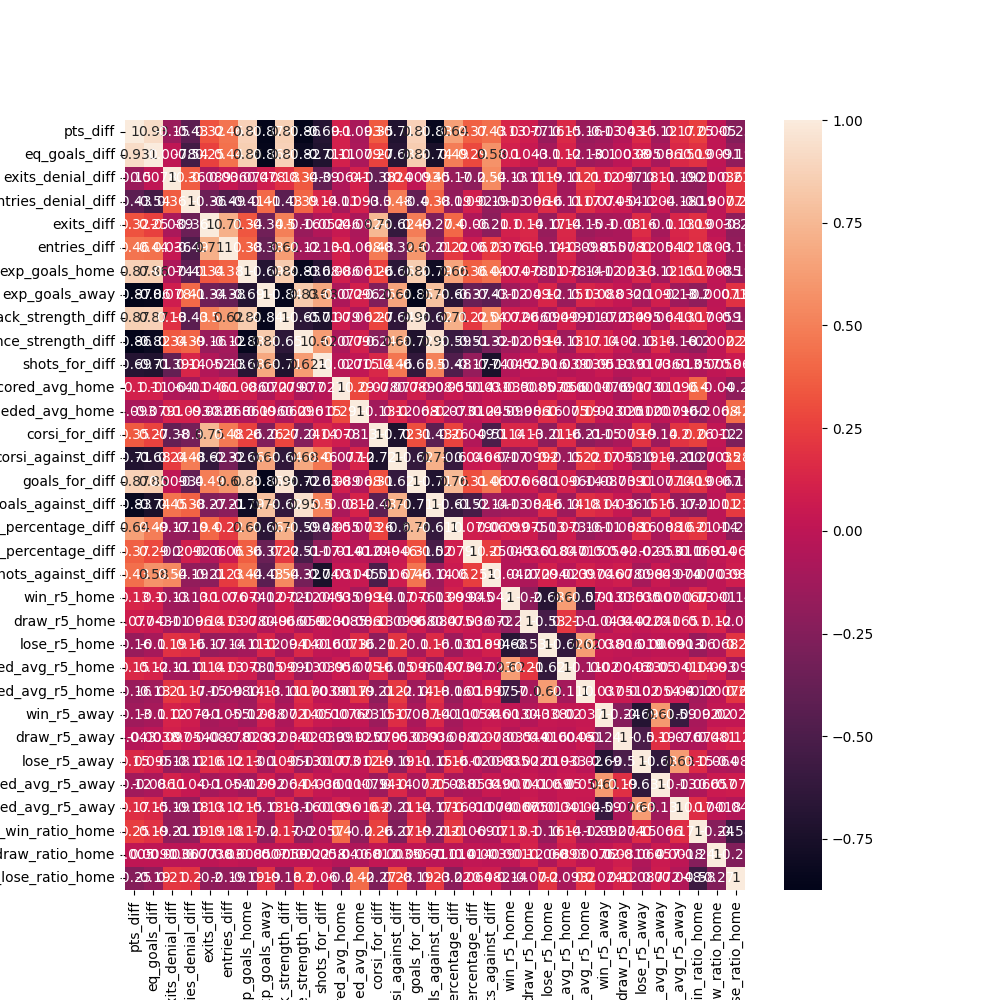
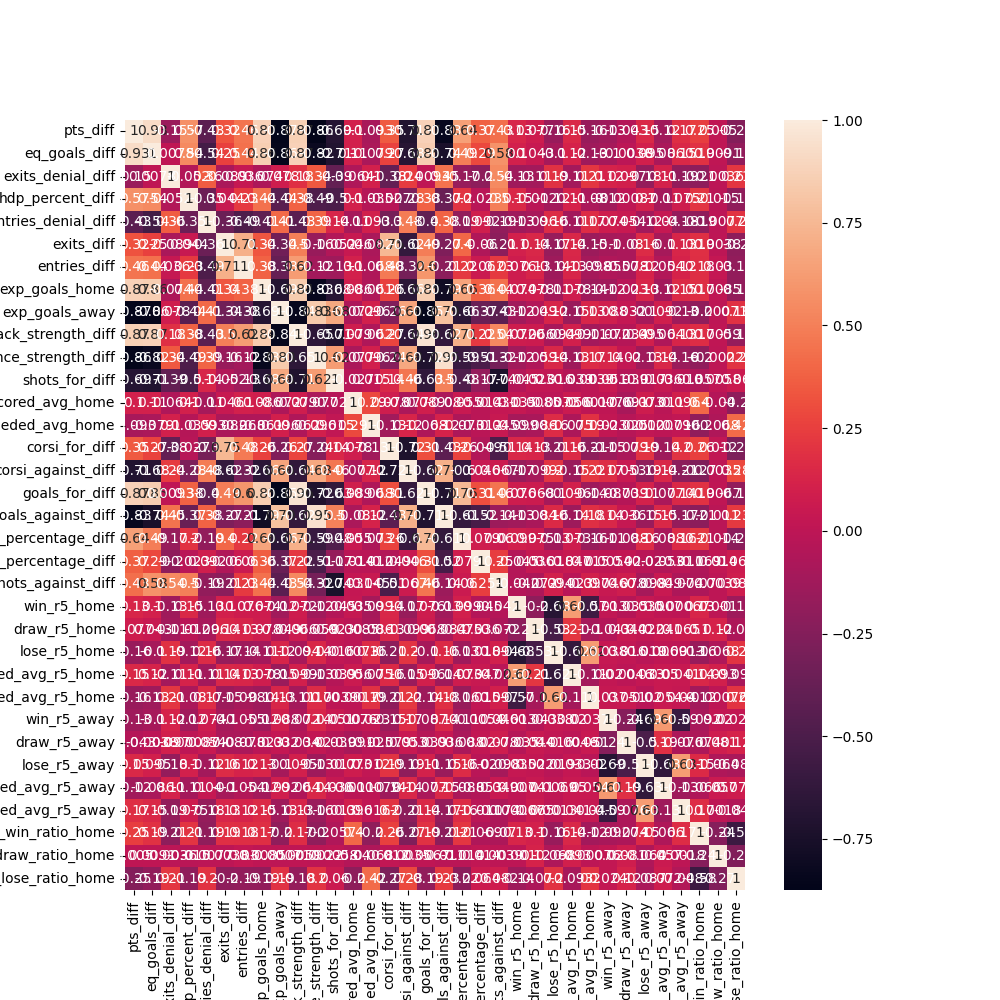
new odds, experiemtsn

diff --git a/predict.py b/predict.py
@@ -9,6 +9,7 @@ exits = pd.read_csv('./data/teams/exits.csv')
 exits_denial = pd.read_csv('./data/teams/exits_denial.csv')
 entries = pd.read_csv('./data/teams/entries.csv')
 league_shots = pd.read_csv('./data/teams/shots_league.csv')
+hd_passes = pd.read_csv('./data/teams/hd_passes.csv')
 entries_denial = pd.read_csv('./data/teams/entries_denial.csv')
 league_stats = pd.read_csv('./data/22_23_league.csv')
 # choose first row of league stats
@@ -20,7 +21,7 @@ ceiling_odd = config['ceiling_odd']
 models = {}
 target_vars = []
 
-features = ['pts_diff', 'eq_goals_diff', 'exits_denial_diff', 'entries_denial_diff', 'exits_diff', 'entries_diff', 'exp_goals_home', 'exp_goals_away', 'attack_strength_diff', 'defence_strength_diff', 'shots_for_diff', 'h2h_scored_avg_home', 'h2h_conceded_avg_home', 'corsi_for_diff', 'corsi_against_diff', 'goals_for_diff', 'goals_against_diff', 'pp_percentage_diff', 'pk_percentage_diff', 'shots_against_diff', 'win_r5_home', 'draw_r5_home', 'lose_r5_home', 'scored_avg_r5_home', 'conceded_avg_r5_home', 'win_r5_away', 'draw_r5_away', 'lose_r5_away', 'scored_avg_r5_away', 'conceded_avg_r5_away', 'h2h_win_ratio_home', 'h2h_draw_ratio_home', 'h2h_lose_ratio_home']
+features = config['default_features'] 
 for model in os.listdir(model_dir): 
     if model.endswith('.sav'):
         type = model.split('_')[0]
@@ -121,6 +122,13 @@ def populate_matchup_data(matchup, team1, team2):
     entries_denial_diff = team_home_entries_denial - team_away_entries_denial
     matchup['entries_denial_diff'] = entries_denial_diff
 
+
+    hdp_passes_home = hd_passes[hd_passes['Team'] == team1]
+    hdp_passes_away = hd_passes[hd_passes['Team'] == team2]
+    team_home_hdp_percent = hdp_passes_home['SuccessfulHDP %'].mean()
+    team_away_hdp_percent = hdp_passes_away['SuccessfulHDP %'].mean()
+    hdp_percent_diff = team_home_hdp_percent - team_away_hdp_percent
+    matchup['hdp_percent_diff'] = hdp_percent_diff 
     
 
 
@@ -270,7 +278,7 @@ for match in odds:
         idx=0
 
         bookmaker_line = match.get(target_var)
-        # print(target_var)
+        print(target_var)
         for prob in line:
             adjusted_prob = prob*100+(bookmaker_margin/len(line))
             adjusted_prob = adjusted_prob/100
@@ -306,7 +314,13 @@ for match in odds:
 
             # 30% is max EV,reason: possible error in model
             if ev>config['min_ev'] and bookmaker_odd<ceiling_odd and bookmaker_odd > 1:
+                bankroll = config['bankroll']
+                kelly_fraction = config['kelly_fraction']
+                kelly_bet = (prob*bookmaker_odd-1)/(bookmaker_odd-1)
+                kelly_bet = round(kelly_bet, 2)
+                kelly_bet = kelly_bet*kelly_fraction
                 print(f'Detected value bet: {ev}% - {target_var} {outcome_str} - Bookmaker: {bookmaker_odd}(Correct: {round(1/adjusted_prob, 2)}) - Prob: {round(prob*100, 2)}%') 
+                print(f'Recommended bet: {round(kelly_bet*bankroll, 2)}€')
             
             odds_accuracy += (1-abs(1/adjusted_prob-bookmaker_odd)/bookmaker_odd)*100
             odds_amount += 1

diff --git a/main.py b/main.py
@@ -2,22 +2,23 @@ import pandas as pd
 import numpy as np
 import seaborn as sns
 from matplotlib import pyplot as plt
+import json
 team_stats = pd.read_csv('./data/teams/Combined_Teams.csv')
 games = pd.read_csv('./data/games/Combined_Games.csv')
 exits = pd.read_csv('./data/teams/exits.csv')
+hd_passes = pd.read_csv('./data/teams/hd_passes.csv')
 exits_denial = pd.read_csv('./data/teams/exits_denial.csv')
-league_shots = pd.read_csv('./data/teams/shots_league.csv')
 entries_denial = pd.read_csv('./data/teams/entries_denial.csv')
 entries = pd.read_csv('./data/teams/entries.csv')
+config = json.load(open('./config.json'))
 from sklearn.model_selection import train_test_split
 from sklearn.model_selection import cross_val_score
 from sklearn.linear_model import LogisticRegression
 from sklearn.metrics import accuracy_score, classification_report
 
-# TODO: Learn how to use HD passes and HD passes against to improve model
-features = ['pts_diff', 'eq_goals_diff', 'exits_denial_diff', 'entries_denial_diff', 'exits_diff', 'entries_diff', 'exp_goals_home', 'exp_goals_away', 'attack_strength_diff', 'defence_strength_diff', 'shots_for_diff', 'h2h_scored_avg_home', 'h2h_conceded_avg_home', 'corsi_for_diff', 'corsi_against_diff', 'goals_for_diff', 'goals_against_diff', 'pp_percentage_diff', 'pk_percentage_diff', 'shots_against_diff', 'win_r5_home', 'draw_r5_home', 'lose_r5_home', 'scored_avg_r5_home', 'conceded_avg_r5_home', 'win_r5_away', 'draw_r5_away', 'lose_r5_away', 'scored_avg_r5_away', 'conceded_avg_r5_away', 'h2h_win_ratio_home', 'h2h_draw_ratio_home', 'h2h_lose_ratio_home']
+features = config['default_features'] 
 
-target_var = 'Moneyline'
+target_var = 'Outcome'
 league_stats = pd.read_csv('./data/22_23_league.csv')
 # choose first row of league stats
 league_stats = league_stats.iloc[0]
@@ -30,6 +31,7 @@ def get_dist(feature):
 def get_samples(dist):
     samples = np.random.choice(dist, 10000)
     return samples
+
 
 def monte_carlo_sim(model, its=5000):
     samples = []
@@ -199,6 +201,15 @@ for index, row in games.iterrows():
     team_away_entries_denial = team_away_entries_denial['ControlledEntries %against'].mean()
     entries_denial_diff = team_home_entries_denial - team_away_entries_denial
     games.at[index, 'entries_denial_diff'] = entries_denial_diff 
+
+    hdp_passes_home = hd_passes[hd_passes['Team'] == row['Team']]
+    hdp_passes_away = hd_passes[hd_passes['Team'] == row['Opp.']]
+    team_home_hdp_percent = hdp_passes_home['SuccessfulHDP %'].mean()
+    team_away_hdp_percent = hdp_passes_away['SuccessfulHDP %'].mean()
+    hdp_percent_diff = team_home_hdp_percent - team_away_hdp_percent
+    games.at[index, 'hdp_percent_diff'] = hdp_percent_diff 
+
+
 
 
 

diff --git a/combine_seasons.py b/combine_seasons.py
@@ -4,13 +4,15 @@ season_new = pd.read_csv('./data/teams/23_24-Teams.csv')
 season_last_shots = pd.read_csv('./data/teams/22_23-shots.csv')
 season_new_shots = pd.read_csv('./data/teams/23_24-shots.csv')
 
+include_new_season = True
+
 combined = pd.DataFrame()
 season_last = season_last.drop(columns=['Season'])
 season_new = season_new.drop(columns=['Season'])
 season_last_shots = season_last_shots.drop(columns=['Season'])
 season_new_shots = season_new_shots.drop(columns=['Season'])
 weight = season_new['GP'].sum() / season_last['GP'].sum();
-weight = weight * 1.5 
+weight = 0 if not include_new_season else weight * 1.5;
 print(f'Weight: {weight}')
 cols_to_average = ['GP', 'PTS', 'PTS/GP', 'TOI', 'Leading', 'Tied', 'Trailing', 'GF', 'GA', 'G±', 'GF_', 'GA_', 'G_±', 
                       'GF_/60', 'GA_/60', 'EQ TOI', 'EQ GF', 'EQ GA', 'EQ G±', 'EQ GF/60', 'EQ GA/60', 'PP TOI', 'PP OP', 
@@ -28,7 +30,10 @@ season_last_shots[shots_cols_to_average] = season_last_shots[shots_cols_to_avera
 season_new_shots[shots_cols_to_average] = season_new_shots[shots_cols_to_average].apply(lambda x: x * weight)
 combined_shots = pd.concat([season_last_shots, season_new_shots]).groupby(['Team'])[shots_cols_to_average].mean().reset_index()
 # add shots data to team data
-combined = pd.concat([season_last, season_new]).groupby(['Team'])[cols_to_average].mean().reset_index()
+if include_new_season:
+    combined = pd.concat([season_last, season_new]).groupby(['Team'])[cols_to_average].mean().reset_index()
+else:
+    combined = season_last
 combined = pd.concat([combined, combined_shots], axis=1)
 combined.to_csv('./data/teams/Combined_Teams.csv', index=False)
 

diff --git a/nike_odds.py b/nike_odds.py
@@ -81,19 +81,13 @@ teams = {
 }
 def format_odds(odds):
     # get match outcome: betHeaderDetail = 'Zapas'
-    moneyline = odds[0];
+    moneyline = [x for x in odds if x['headerDetail'] == 'Víťaz zápasu'][0];
     date = moneyline['expirationTime'].split('T')[0];
     moneyline_first_team = moneyline['selectionGrid'][0][0]['odds'];
     moneyline_second_team = moneyline['selectionGrid'][0][1]['odds'];
-    outcome = odds[1];
+    outcome = [x for x in odds if x['headerDetail'] == 'Zápas'][0]; 
     first_team_name = outcome['participants'][0];
     second_team_name = outcome['participants'][1];
-    if outcome['header'] != 'Zápas':
-        print('Error: header is not "Zápas"');
-        return;
-    if moneyline['header'] != 'Víťaz zápasu':
-        print('Error: header is not "Víťaz zápasu"');
-        return;
     first_team_odds = outcome['selectionGrid'][0][0]['odds'];
     draw_odds = outcome['selectionGrid'][0][1]['odds'];
     second_team_odds = outcome['selectionGrid'][0][2]['odds'];
